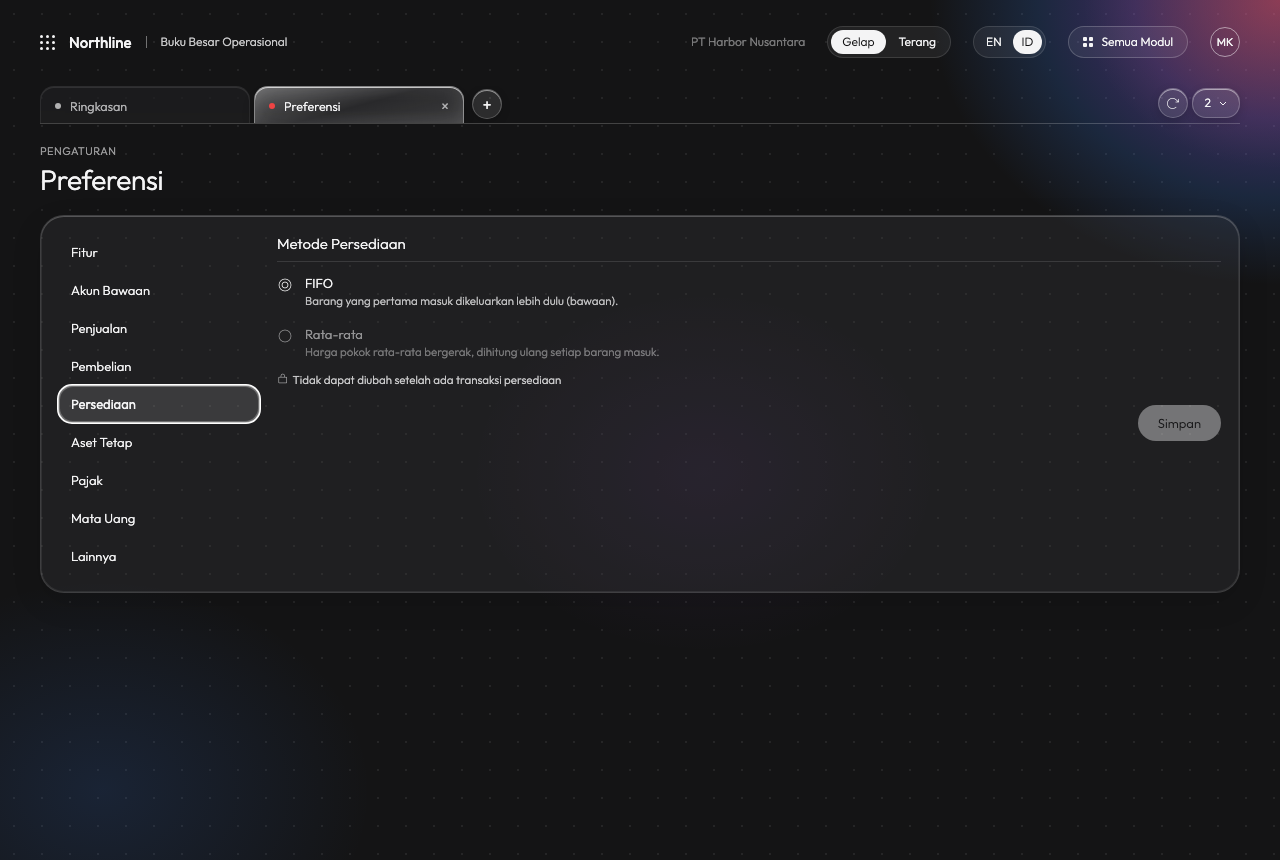
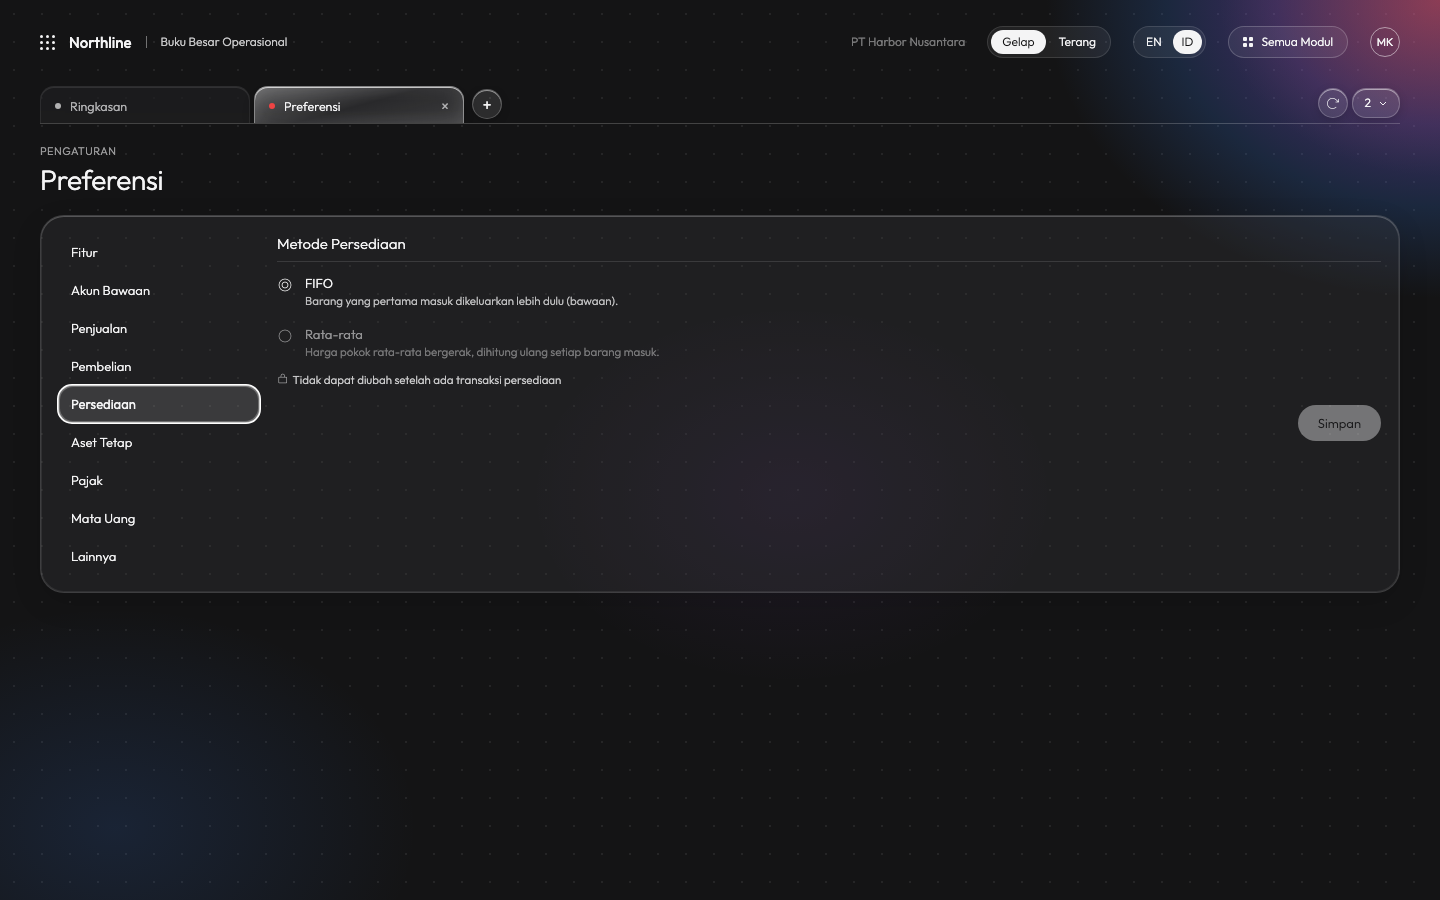
goal(parity): P6.1 prod prefs checked on all 4 branches (switch window, restored to production)

diff --git a/docs/parity/prod-prefs/README.md b/docs/parity/prod-prefs/README.md
@@ -12,14 +12,20 @@ Expected values come from `apps/api/scripts/seed/<profile>.ts` (ADR-0031, ADR-00
 | Branch (profile) | Expected costing / aging / style | Observed (UI and `GET /api/settings/*`) | Verdict | Evidence |
 |---|---|---|---|---|
 | `production` (Manufaktur) | FIFO / DUE_DATE / RETAIL | FIFO (locked) / DUE_DATE / RETAIL | pass | [Persediaan](production-persediaan.png), [Lainnya](production.png) |
-| `prod-retail` (Retail) | FIFO / DUE_DATE / RETAIL | not checked | stopped | - |
-| `prod-trade` (Trade Portal) | AVERAGE / INVOICE_DATE / RETAIL | not checked | stopped | - |
-| `prod-contractor` (Kontraktor) | AVERAGE / INVOICE_DATE / STANDARD | not checked | stopped | - |
+| `prod-retail` (Retail) | FIFO / DUE_DATE / RETAIL | FIFO (locked) / DUE_DATE / RETAIL (2026-10-20) | pass (values equal `production`; branch identity rests on the switch output) | [Persediaan](prod-retail-persediaan.png), [Lainnya](prod-retail.png) |
+| `prod-trade` (Trade Portal) | AVERAGE / INVOICE_DATE / RETAIL | AVERAGE (locked) / INVOICE_DATE / RETAIL (2026-10-20) | pass | [Persediaan](prod-trade-persediaan.png), [Lainnya](prod-trade.png) |
+| `prod-contractor` (Kontraktor) | AVERAGE / INVOICE_DATE / STANDARD | AVERAGE (unlocked) / INVOICE_DATE / STANDARD (2026-10-20) | pass | [Persediaan](prod-contractor-persediaan.png), [Lainnya](prod-contractor.png) |
 
 Which branch is live: the observed values match only the `production` seed. `prod-retail` has the same values, so the
 values alone do not tell the two apart. The workers.dev deploy points at `production` by default (docs/deploy.md).
 
-## Why three branches are stopped
+## Switch window 2026-10-20 (principal approved)
+Each branch was served by `pnpm switch:prod <profile>` (retail, trade, contractor), then read with the same read-only
+Playwright check (0 non-GET `/api` requests except `/api/auth/login`, 0 forms submitted, 0 masked elements). Afterwards
+`pnpm switch:prod manufaktur` restored `production`; the same check on it gave FIFO (locked) / DUE_DATE / RETAIL, as before.
+The `production` screenshots were re-taken by the restore check.
+
+## Why three branches were stopped (2026-10-19, historical)
 One Worker serves one branch at a time (ADR-0036). Only `pnpm switch:prod <profile>` makes another branch visible in
 the ERP, and that command rewrites the Worker's `DATABASE_URL` secret and redeploys it: a production write. No
 read-only route to the other branches' UI exists (no preview URLs, no second Worker). To finish this check, the
